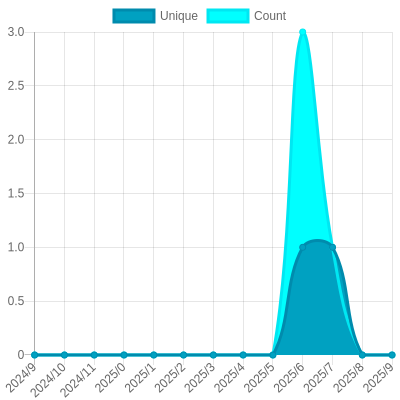
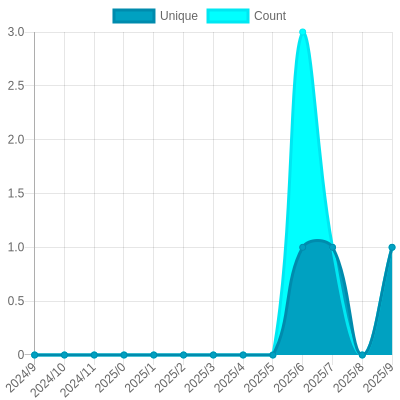
Update views

Changed region(s): [[0.84, 0.6, 0.99, 0.9]]

diff --git a/readme/827282764/year.md b/readme/827282764/year.md
@@ -23,10 +23,10 @@
 			<code>2024/10/1</code>
 		</td>
 		<td>
-			<code>0</code>
+			<code>1</code>
 		</td>
 		<td>
-			<code>0</code>
+			<code>1</code>
 		</td>
 	</tr>
 	<tr>
@@ -164,7 +164,7 @@
 </table>
 
 </details>
-<small><i>Last updated on 2024/10/24 12:28 PM UTC</i></small>
+<small><i>Last updated on 2024/10/24 6:19 PM UTC</i></small>
 
 ## ✂Copy and 📋 Paste
 ### SVG Badge

diff --git a/README.md b/README.md
@@ -357,7 +357,7 @@ The project created and maintained by [gayanvoice](https://github.com/gayanvoice
 	</tr>
 </table>
 
-<small><i>Last updated on 2024/10/24 12:31 PM UTC</i></small>
+<small><i>Last updated on 2024/10/24 6:22 PM UTC</i></small>
 
 ## ✂Copy and 📋 Paste
 ### Total Views Badge

diff --git a/readme/698104324/year.md b/readme/698104324/year.md
@@ -164,7 +164,7 @@
 </table>
 
 </details>
-<small><i>Last updated on 2024/10/24 12:30 PM UTC</i></small>
+<small><i>Last updated on 2024/10/24 6:21 PM UTC</i></small>
 
 ## ✂Copy and 📋 Paste
 ### SVG Badge

diff --git a/readme/698130765/year.md b/readme/698130765/year.md
@@ -164,7 +164,7 @@
 </table>
 
 </details>
-<small><i>Last updated on 2024/10/24 12:28 PM UTC</i></small>
+<small><i>Last updated on 2024/10/24 6:19 PM UTC</i></small>
 
 ## ✂Copy and 📋 Paste
 ### SVG Badge

diff --git a/readme/698182249/year.md b/readme/698182249/year.md
@@ -164,7 +164,7 @@
 </table>
 
 </details>
-<small><i>Last updated on 2024/10/24 12:30 PM UTC</i></small>
+<small><i>Last updated on 2024/10/24 6:20 PM UTC</i></small>
 
 ## ✂Copy and 📋 Paste
 ### SVG Badge

diff --git a/readme/741956451/year.md b/readme/741956451/year.md
@@ -164,7 +164,7 @@
 </table>
 
 </details>
-<small><i>Last updated on 2024/10/24 12:30 PM UTC</i></small>
+<small><i>Last updated on 2024/10/24 6:21 PM UTC</i></small>
 
 ## ✂Copy and 📋 Paste
 ### SVG Badge

diff --git a/readme/750768610/year.md b/readme/750768610/year.md
@@ -164,7 +164,7 @@
 </table>
 
 </details>
-<small><i>Last updated on 2024/10/24 12:31 PM UTC</i></small>
+<small><i>Last updated on 2024/10/24 6:21 PM UTC</i></small>
 
 ## ✂Copy and 📋 Paste
 ### SVG Badge

diff --git a/readme/783743308/year.md b/readme/783743308/year.md
@@ -164,7 +164,7 @@
 </table>
 
 </details>
-<small><i>Last updated on 2024/10/24 12:30 PM UTC</i></small>
+<small><i>Last updated on 2024/10/24 6:21 PM UTC</i></small>
 
 ## ✂Copy and 📋 Paste
 ### SVG Badge

diff --git a/readme/787331288/year.md b/readme/787331288/year.md
@@ -164,7 +164,7 @@
 </table>
 
 </details>
-<small><i>Last updated on 2024/10/24 12:30 PM UTC</i></small>
+<small><i>Last updated on 2024/10/24 6:21 PM UTC</i></small>
 
 ## ✂Copy and 📋 Paste
 ### SVG Badge

diff --git a/readme/787355501/year.md b/readme/787355501/year.md
@@ -164,7 +164,7 @@
 </table>
 
 </details>
-<small><i>Last updated on 2024/10/24 12:30 PM UTC</i></small>
+<small><i>Last updated on 2024/10/24 6:21 PM UTC</i></small>
 
 ## ✂Copy and 📋 Paste
 ### SVG Badge

diff --git a/readme/796346104/year.md b/readme/796346104/year.md
@@ -164,7 +164,7 @@
 </table>
 
 </details>
-<small><i>Last updated on 2024/10/24 12:30 PM UTC</i></small>
+<small><i>Last updated on 2024/10/24 6:21 PM UTC</i></small>
 
 ## ✂Copy and 📋 Paste
 ### SVG Badge

diff --git a/readme/814687995/year.md b/readme/814687995/year.md
@@ -164,7 +164,7 @@
 </table>
 
 </details>
-<small><i>Last updated on 2024/10/24 12:30 PM UTC</i></small>
+<small><i>Last updated on 2024/10/24 6:21 PM UTC</i></small>
 
 ## ✂Copy and 📋 Paste
 ### SVG Badge
